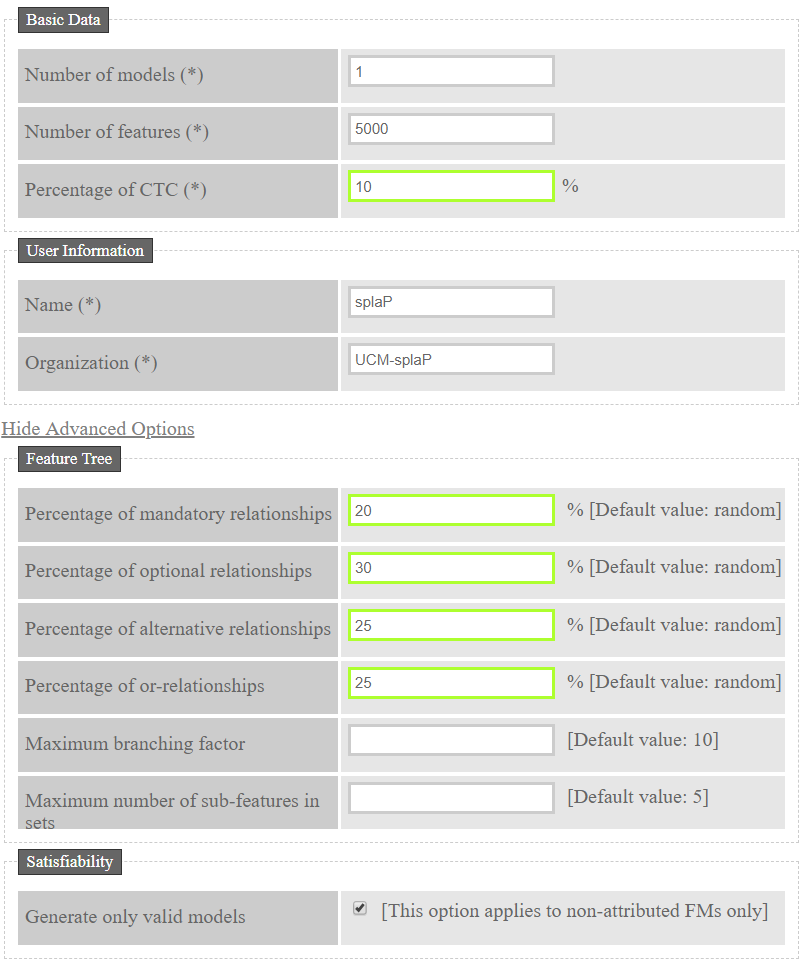
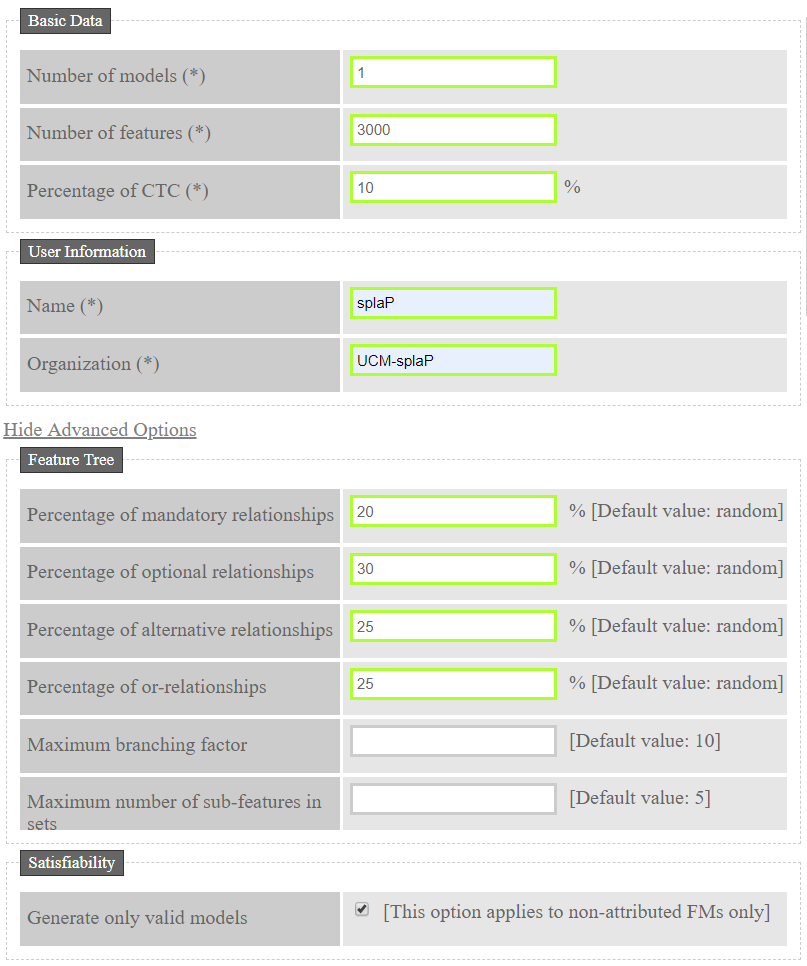
testing fix

diff --git a/introduction.tex b/introduction.tex
@@ -271,7 +271,7 @@ The main contributions of this work can be summarized as:
         for a specific feature.
 
         \item
-        A thorough empirical study, using different configurations to generate a wide-spectrum of variability models. The  study has been carried out in order to show the applicability and scalability of our approach. These variability models have been generated using BeTTy~\cite{SeguraHBC11}.
+        A thorough empirical study, using different configurations to generate a wide-spectrum of variability models. The  study has been carried out in order to show the applicability and scalability of our approach. These variability models have been generated using BeTTy~\cite{sg12}.
 
         \item
         A comparison between the overall implementation performance of the probabilistic extension and the denotational semantic implementation from \fodaPA~\cite{acl13}. The obtained results show that the denotational semantics of the probabilistic extension implementation behaves more efficiently both in space and time

diff --git a/testing.tex b/testing.tex
@@ -67,9 +67,10 @@ Firstly, we have carried out an experiment to
 show the computing time required to calculate the probability of having
 each feature in the set of valid products.
 In order to run this experiment, a variability model consisting of
-1500 features has been used.
+3000 features has been used.
 This variability model
-has been generated using BeTTy~\cite{SeguraHBC11}.
+has been generated using BeTTy~\cite{sg12}, in specific 
+its web version\footnote{\url{https://betty.services.governify.io/}}.
 Figure~\ref{fig:plot:betty:params} depicts the parameters used in the feature models
 generator.
 
